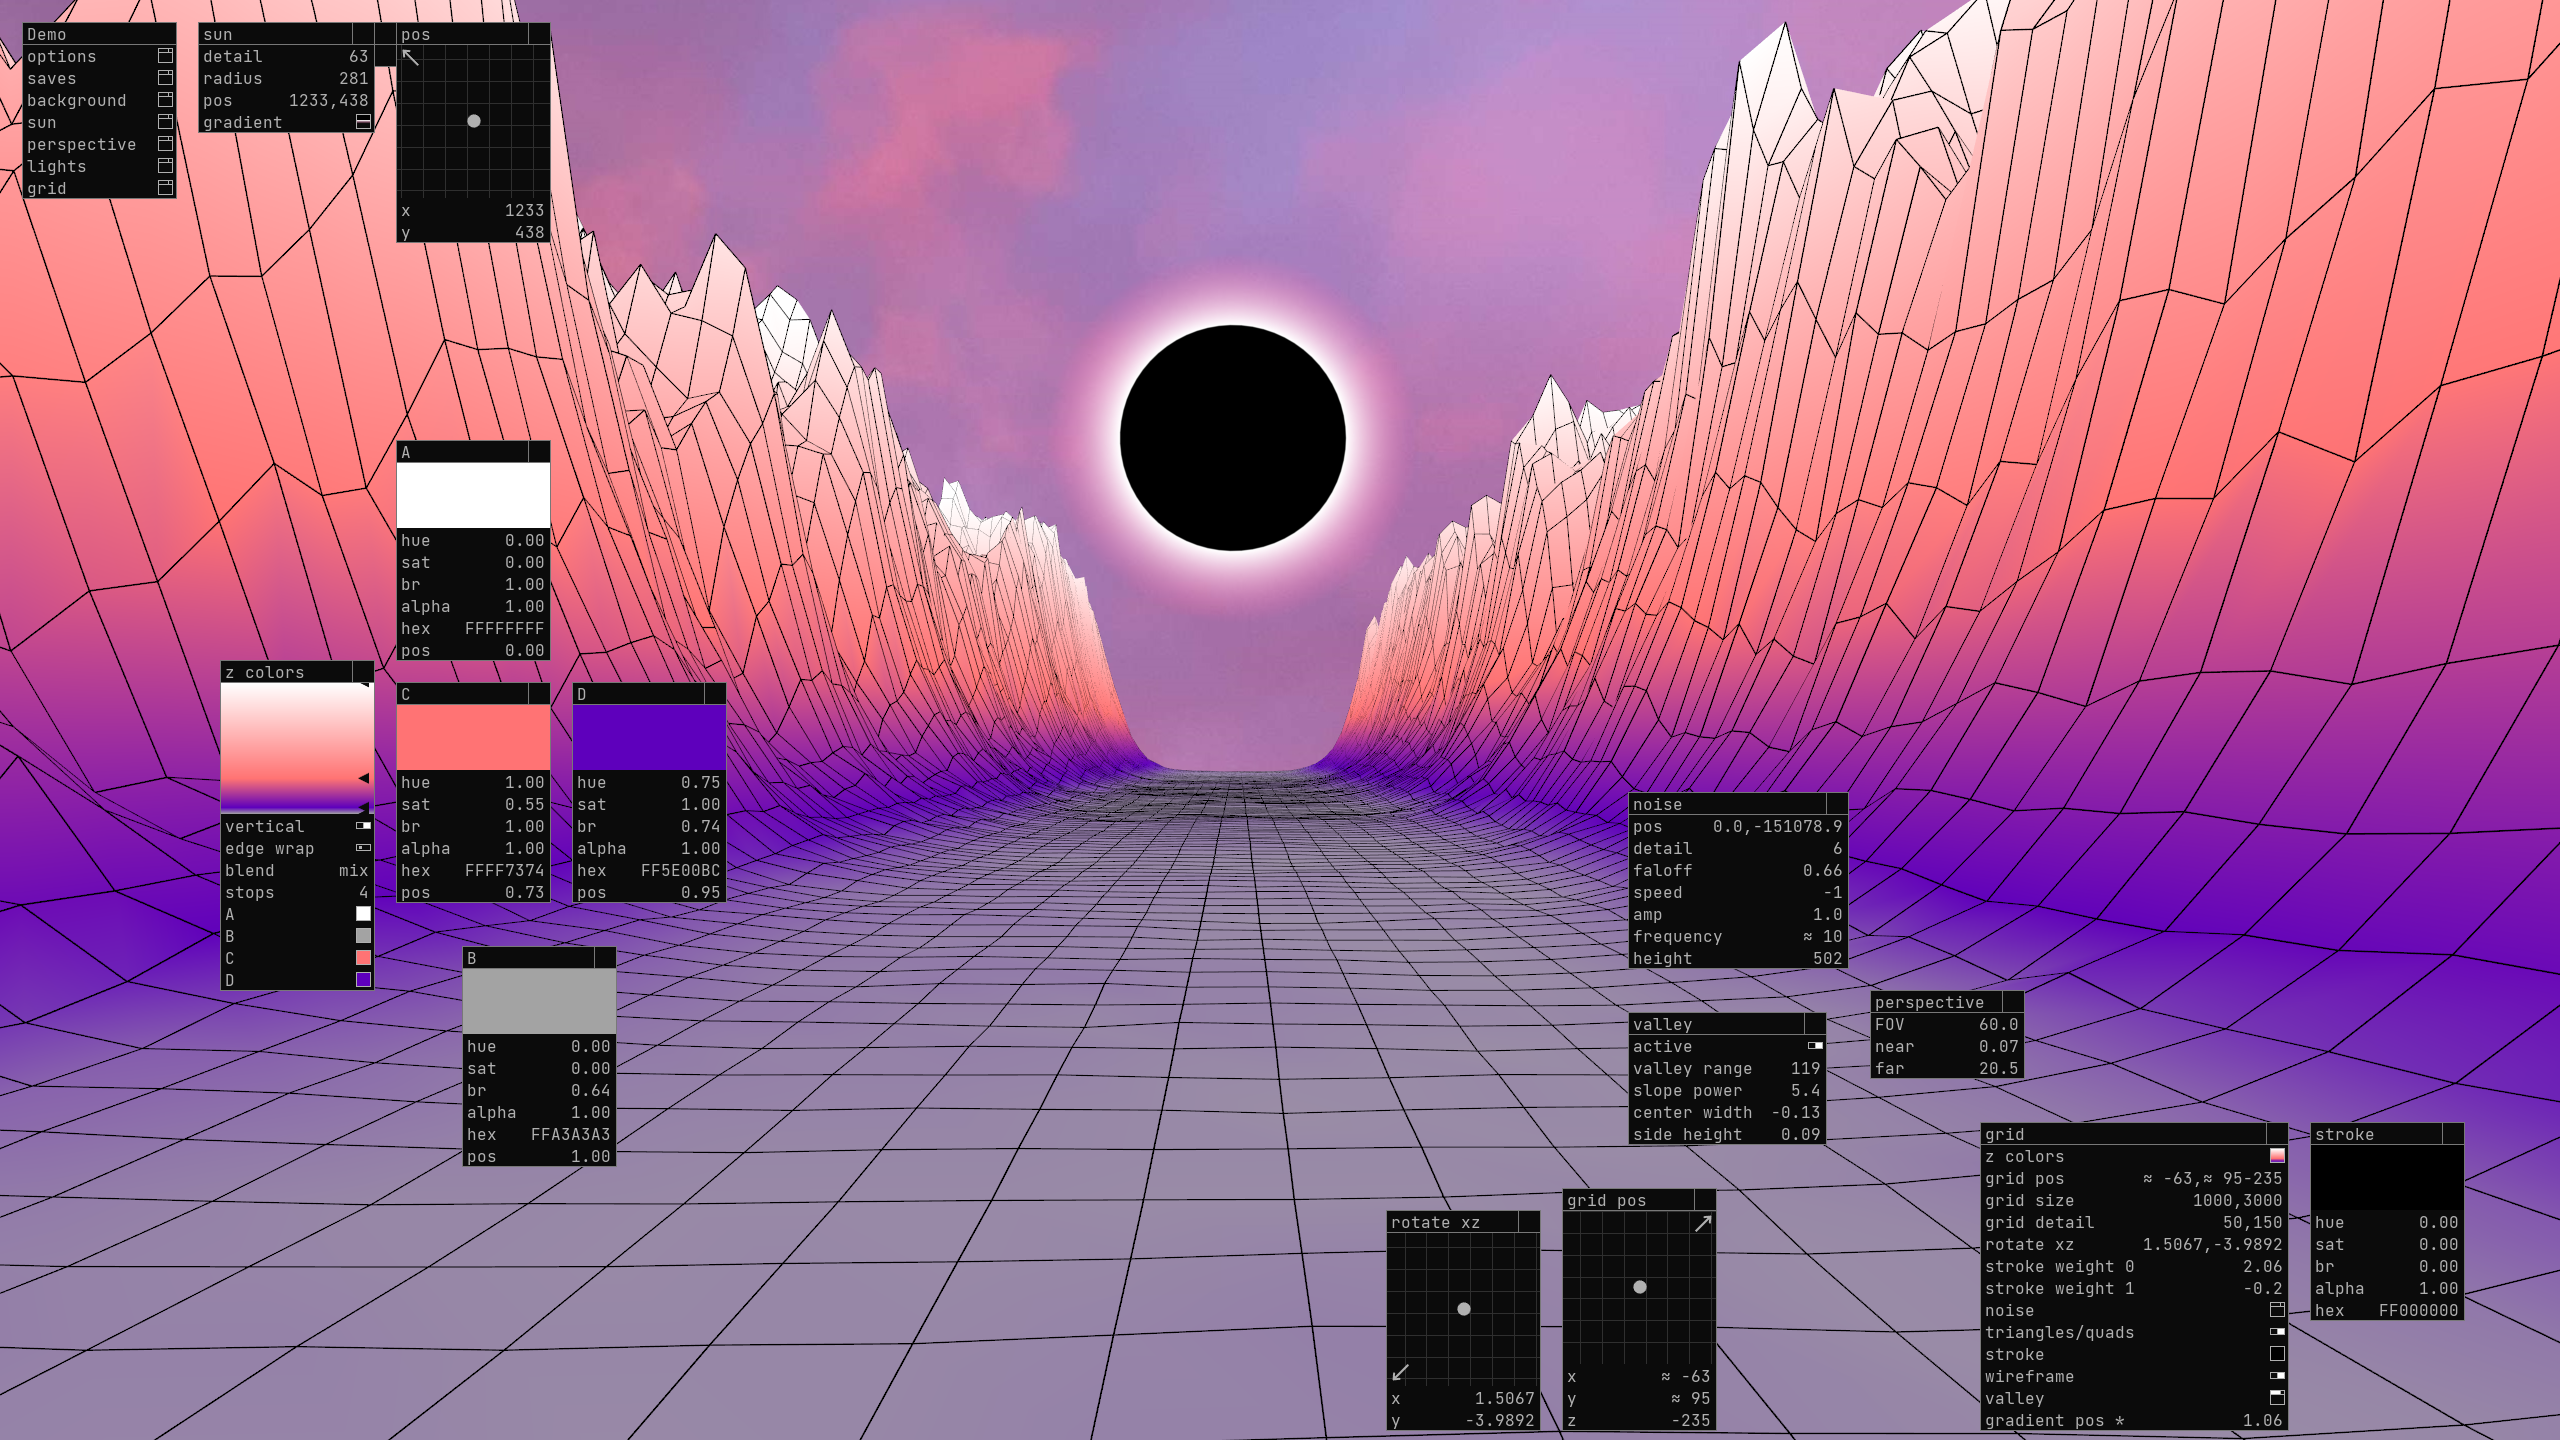
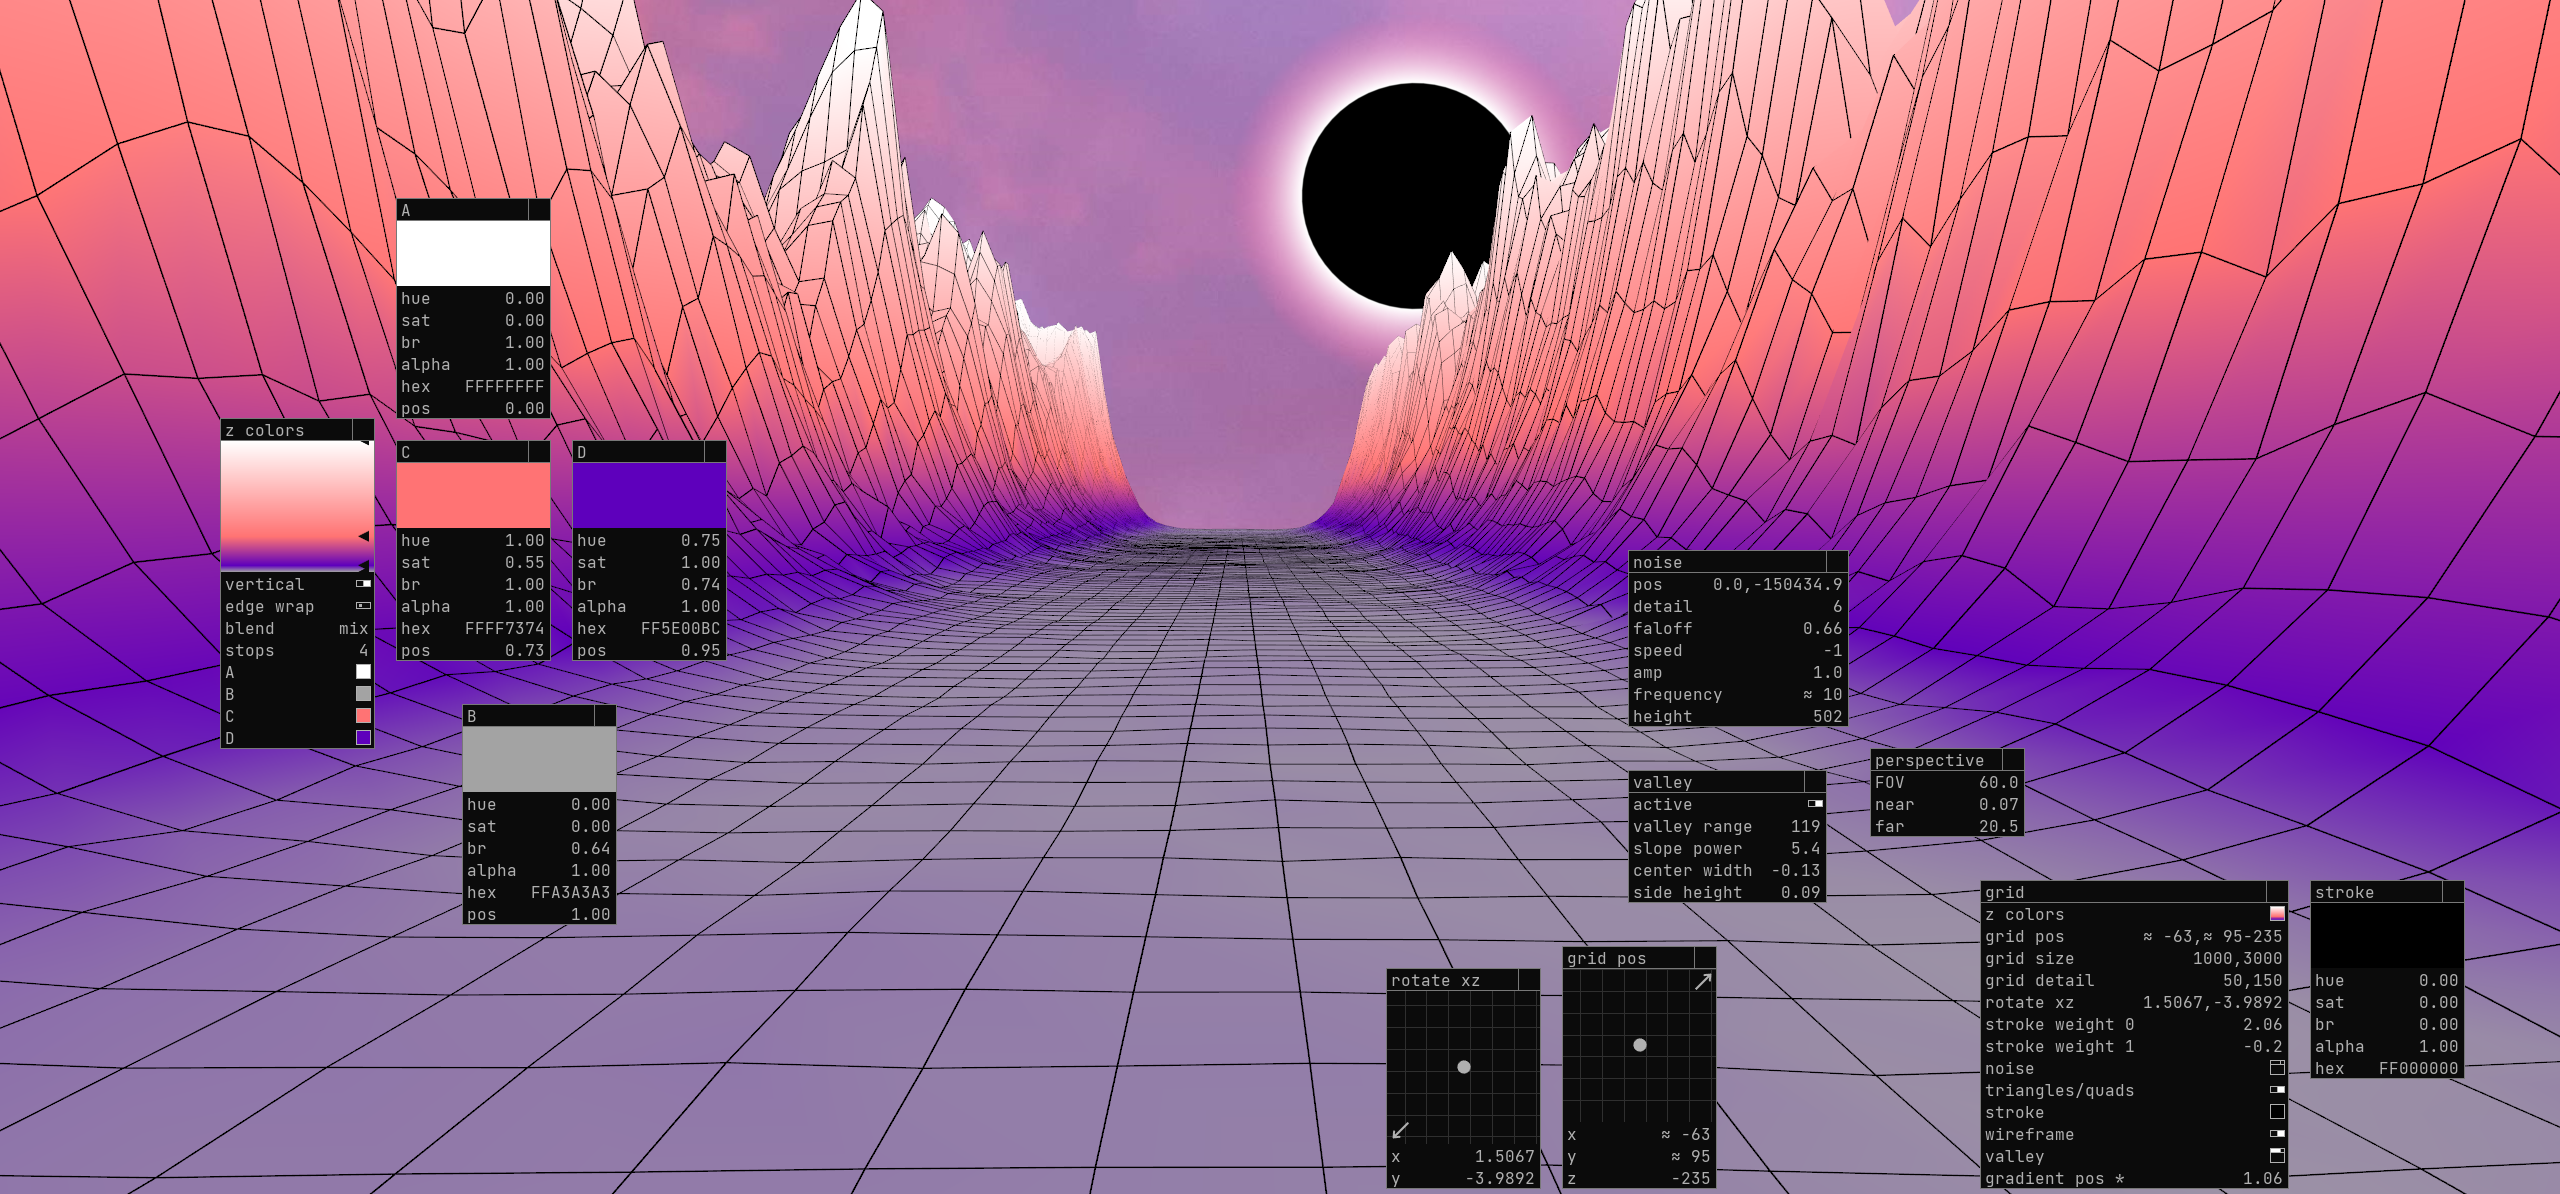
removed lights from demo better logging

diff --git a/src/main/java/com/krab/lazy/examples_intellij/OutrunDemo.java b/src/main/java/com/krab/lazy/examples_intellij/OutrunDemo.java
@@ -2,13 +2,12 @@ package com.krab.lazy.examples_intellij;
 
 import com.krab.lazy.LazyGui;
 import com.krab.lazy.LazyGuiSettings;
-import com.krab.lazy.PickerColor;
 import processing.core.PApplet;
 import processing.core.PImage;
 import processing.core.PVector;
 
 
-public class Demo extends PApplet {
+public class OutrunDemo extends PApplet {
     LazyGui gui;
     PImage img;
     private final String defaultImagePath = "https://i.imgur.com/oIppd93.jpg";
@@ -28,8 +27,8 @@ public class Demo extends PApplet {
     public void setup() {
         colorMode(HSB, 1, 1, 1, 1);
         gui = new LazyGui(this, new LazyGuiSettings()
-//                .setLoadLatestSaveOnStartup(false)
-//                .setAutosaveOnExit(false)
+                .setLoadLatestSaveOnStartup(false)
+                .setAutosaveOnExit(false)
         );
         img = loadImage(defaultImagePath);
         frameRate(144);
@@ -42,54 +41,7 @@ public class Demo extends PApplet {
         drawSun();
         hint(ENABLE_DEPTH_TEST);
         perspective();
-        customLights();
         drawNoisyQuadStrip();
-        noLights();
-    }
-
-    private void customLights() {
-        gui.pushFolder("lights");
-        if(!gui.toggle("active")){
-            gui.popFolder();
-            return;
-        }
-        {
-            gui.pushFolder("directional");
-            PVector direction = gui.plotXYZ("direction");
-            PickerColor dirColor = gui.colorPicker("color");
-            if (gui.toggle("active")) {
-                directionalLight(dirColor.hue, dirColor.saturation, dirColor.brightness,
-                        direction.x, direction.y, direction.z);
-            }
-            gui.popFolder();
-        }
-        {
-            gui.pushFolder("specular");
-            PickerColor specColor = gui.colorPicker("color");
-            if (gui.toggle("active")) {
-                lightSpecular(specColor.hue, specColor.saturation, specColor.brightness);
-            }
-            gui.popFolder();
-        }
-        {
-            gui.pushFolder("point light");
-            PVector pos = gui.plotXYZ("pos");
-            PickerColor color = gui.colorPicker("color");
-            if(gui.toggle("active")){
-            pointLight(color.hue, color.saturation, color.brightness, pos.x, pos.y, pos.z);
-            }
-            gui.popFolder();
-        }
-        {
-            gui.pushFolder("emissive");
-            PickerColor color = gui.colorPicker("color", color(1));
-            if(gui.toggle("active")){
-                emissive(color.hue, color.saturation, color.brightness);
-            }
-            gui.popFolder();
-        }
-        shininess(gui.slider("shininess"));
-        gui.popFolder();
     }
 
     private void drawBackground() {
@@ -102,7 +54,7 @@ public class Demo extends PApplet {
             }
             pushMatrix();
             imageMode(CENTER);
-            float scale = gui.slider("image scale");
+            float scale = gui.slider("image scale", 1);
             translate(width / 2f, height / 2f);
             scale(scale, scale);
             image(img, 0, 0);

diff --git a/src/main/java/com/krab/lazy/ShaderReloader.java b/src/main/java/com/krab/lazy/ShaderReloader.java
@@ -231,12 +231,12 @@ public class ShaderReloader {
                 compiledShader = candidate;
                 compiledOk = true;
                 fragLastKnownModified = lastModified;
-                println("Compiled", fragPath != null ? fragPath : "",
+                println("Compiled shader from:", fragPath != null ? fragPath : "",
                         vertPath != null ? vertPath : "");
             } catch (Exception ex) {
                 lastKnownUncompilable = lastModified;
-                println((fragPath != null ? " " + fragPath : ""),
-                        (vertPath != null ? " or " + (vertFile != null ? vertPath : null) : "") + ":");
+                println((fragPath != null ? "" + fragPath : ""),
+                        (vertPath != null ? " or " + (vertFile != null ? vertPath : null) : "") + "says:");
                 println(ex.getMessage());
             }
         }
